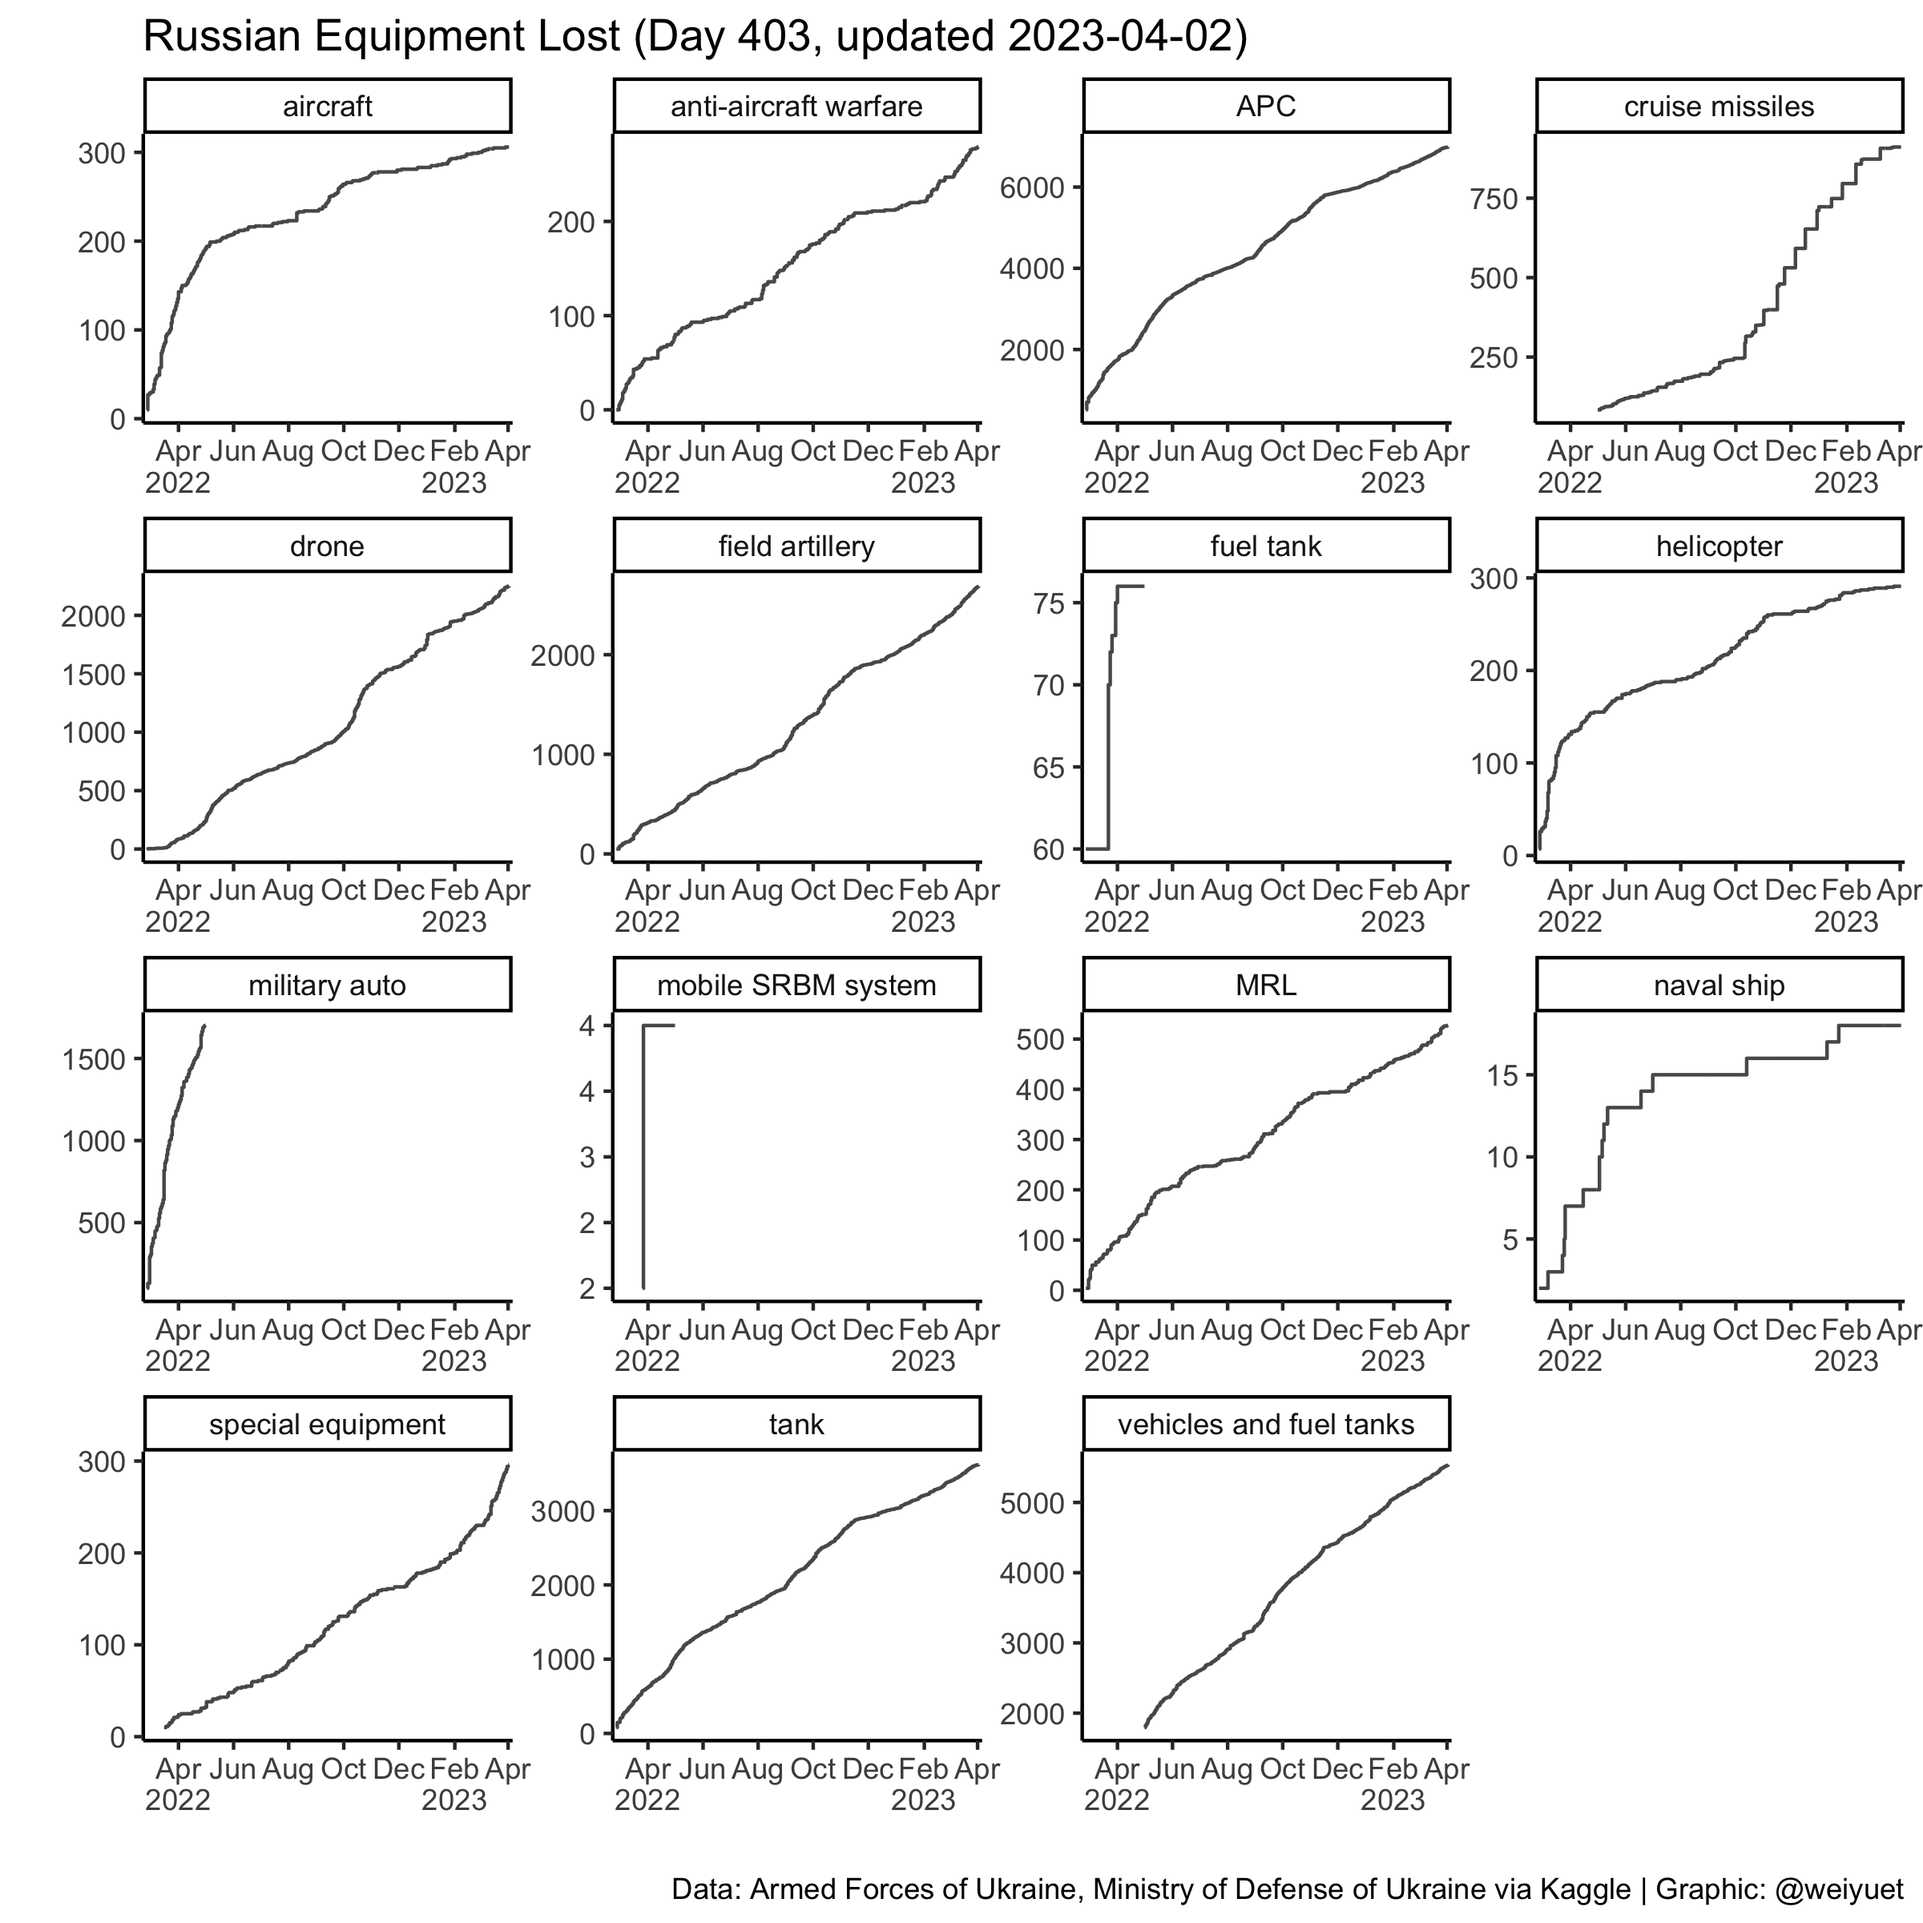
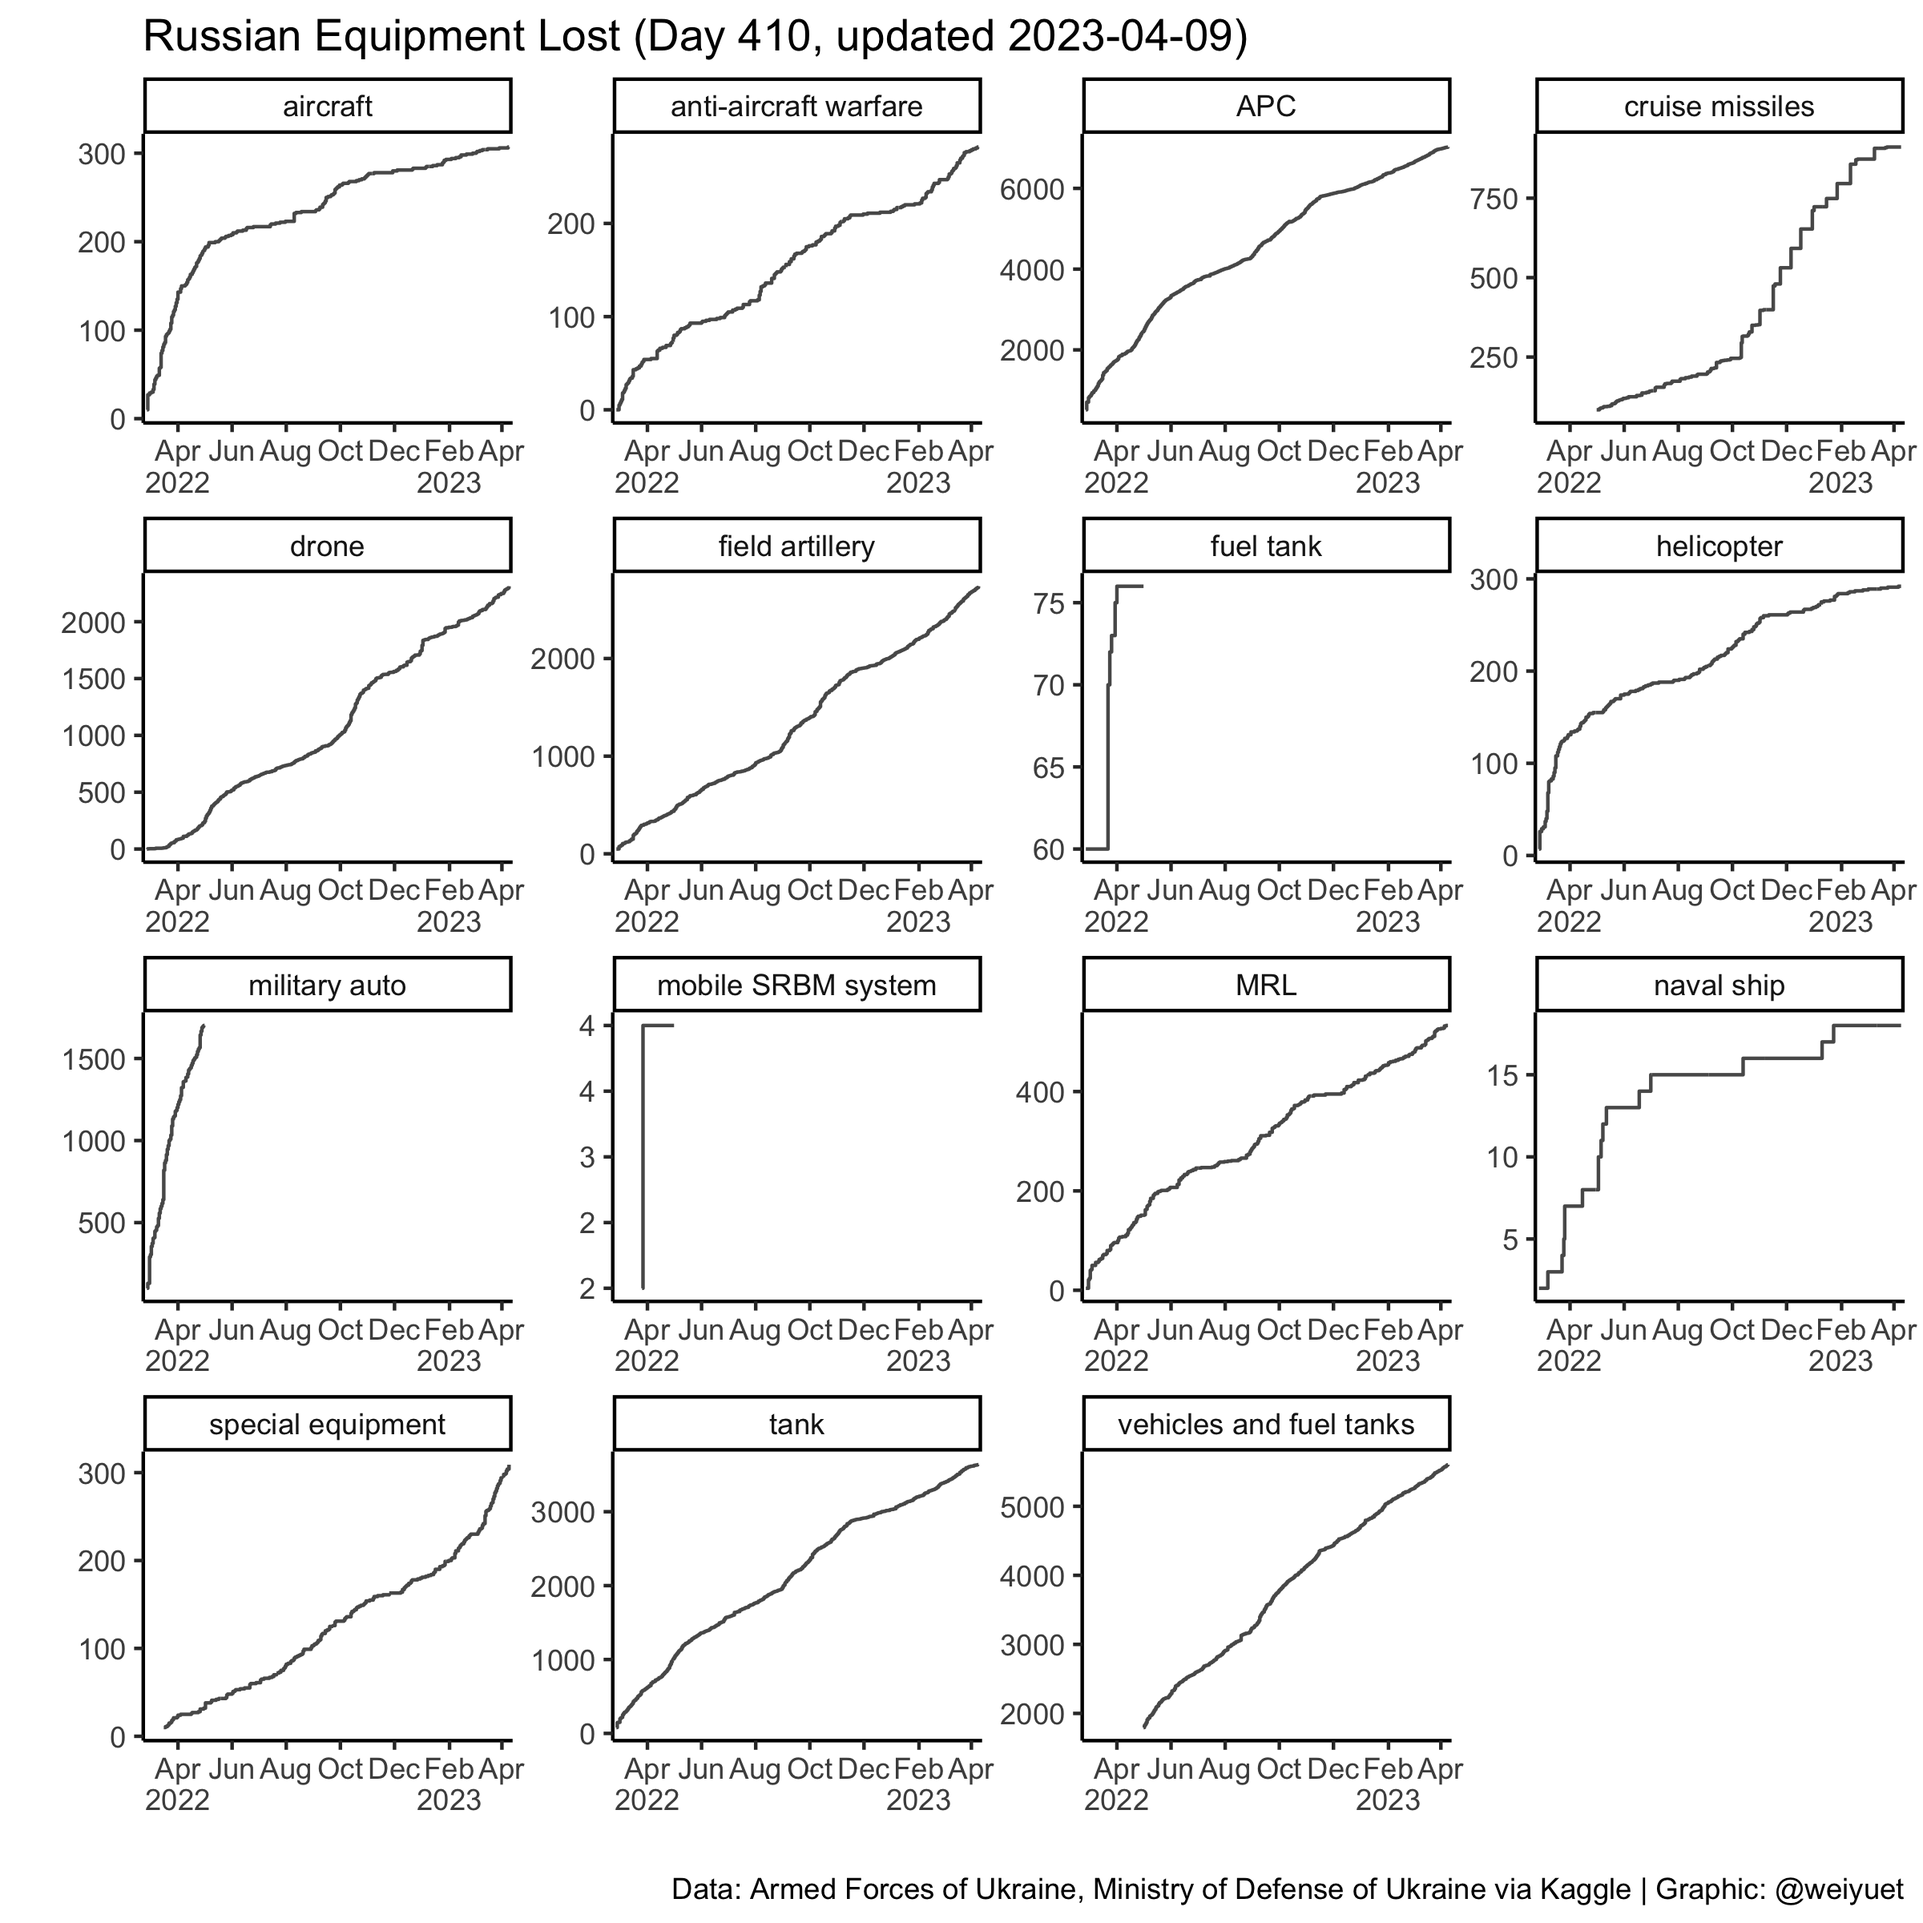
Updated 10 April

diff --git a/README.md b/README.md
@@ -6,7 +6,7 @@ Wong Wei Yuet 2022-05-26
 
   - War casualty data updated daily from [`Petro Ivanyuk's Kaggle`](https://www.kaggle.com/datasets/piterfm/2022-ukraine-russian-war). All data is official and put together by `Petro`
 
-Updated: 2023-04-03
+Updated: 2023-04-10
 
 ## Summary of Conflict
 
